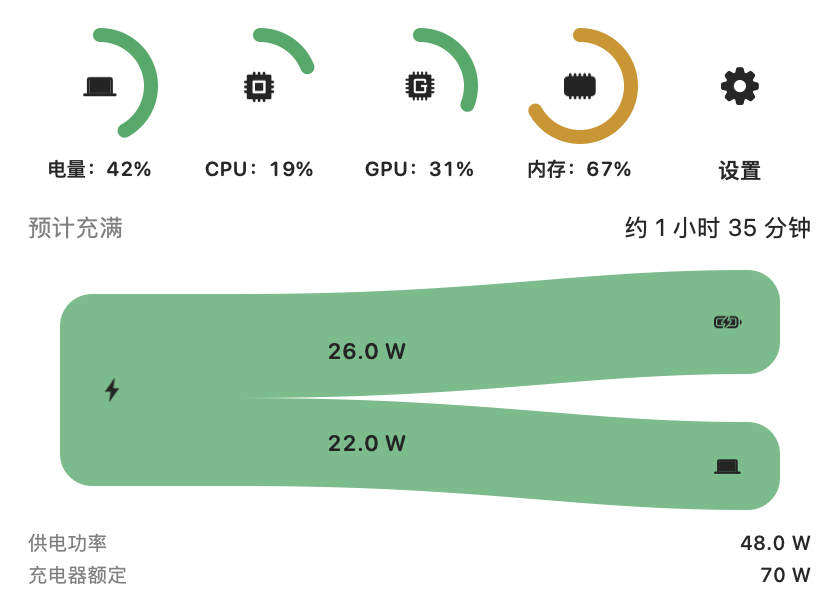
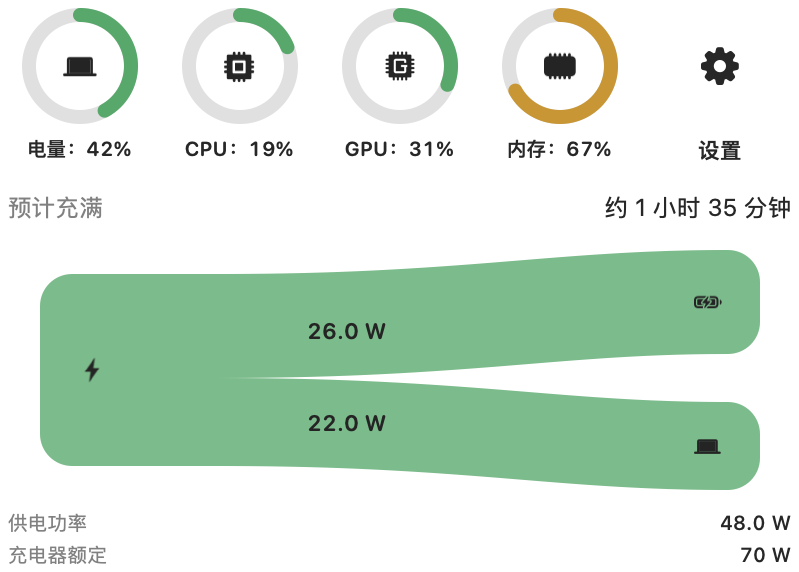
Capture README panels on an opaque canvas so glass presets stay visible.
Liquid Glass sampled as empty black in gallery bitmaps, and transparent pixels looked black on GitHub dark mode. Gallery shots now flatten onto the window background with an opaque ribbon fallback.

diff --git a/MacPower/ReadmeAssetCapture.swift b/MacPower/ReadmeAssetCapture.swift
@@ -12,6 +12,10 @@ enum ReadmeAssetCapture {
         var tint: PopoverTintPreset
     }
 
+    /// Opaque page color so GitHub dark/light both show a real panel, not a
+    /// transparent hole that reads as black.
+    private static let canvasColor = NSColor.windowBackgroundColor
+
     static func startIfNeeded() -> Bool {
         guard CommandLine.arguments.contains("--readme-gallery") else { return false }
         NSApp.setActivationPolicy(.regular)
@@ -53,6 +57,7 @@ enum ReadmeAssetCapture {
         let hosting = NSHostingController(
             rootView: PopoverRootView(appState: state)
                 .environment(\.colorScheme, .light)
+                .environment(\.readmeGalleryCapture, true)
         )
         hosting.sizingOptions = [.intrinsicContentSize]
         let popover = NSPopover()
@@ -96,7 +101,7 @@ enum ReadmeAssetCapture {
             }
             let dest = output.appendingPathComponent("\(shot.name).png")
             if captureView(hosting.view, to: dest) {
-                trimOpaqueContent(at: dest)
+                flattenAndTrim(at: dest)
                 print("wrote \(dest.lastPathComponent)")
             } else {
                 print("failed \(shot.name)")
@@ -121,6 +126,15 @@ enum ReadmeAssetCapture {
         let size = view.bounds.size
         guard size.width > 1, size.height > 1 else { return false }
         guard let rep = view.bitmapImageRepForCachingDisplay(in: view.bounds) else { return false }
+        // Paint an opaque canvas first — transparent glass holes otherwise ship
+        // as empty alpha and look black on GitHub's dark README theme.
+        if let ctx = NSGraphicsContext(bitmapImageRep: rep) {
+            NSGraphicsContext.saveGraphicsState()
+            NSGraphicsContext.current = ctx
+            canvasColor.setFill()
+            NSBezierPath.fill(view.bounds)
+            NSGraphicsContext.restoreGraphicsState()
+        }
         view.cacheDisplay(in: view.bounds, to: rep)
         guard let png = rep.representation(using: .png, properties: [:]) else { return false }
         do {
@@ -131,12 +145,30 @@ enum ReadmeAssetCapture {
         }
     }
 
-    private static func trimOpaqueContent(at url: URL) {
+    private static func flattenAndTrim(at url: URL) {
         guard let image = NSImage(contentsOf: url),
               let tiff = image.tiffRepresentation,
               let rep = NSBitmapImageRep(data: tiff) else { return }
         let width = rep.pixelsWide
         let height = rep.pixelsHigh
+        let bg = canvasColor.usingColorSpace(.deviceRGB) ?? canvasColor
+        let bgR = bg.redComponent
+        let bgG = bg.greenComponent
+        let bgB = bg.blueComponent
+
+        // Flatten remaining alpha onto the canvas color.
+        for y in 0..<height {
+            for x in 0..<width {
+                guard let color = rep.colorAt(x: x, y: y) else { continue }
+                let a = color.alphaComponent
+                if a >= 0.999 { continue }
+                let r = color.redComponent * a + bgR * (1 - a)
+                let g = color.greenComponent * a + bgG * (1 - a)
+                let b = color.blueComponent * a + bgB * (1 - a)
+                rep.setColor(NSColor(deviceRed: r, green: g, blue: b, alpha: 1), atX: x, y: y)
+            }
+        }
+
         var minX = width
         var minY = height
         var maxX = 0
@@ -144,9 +176,11 @@ enum ReadmeAssetCapture {
         for y in 0..<height {
             for x in 0..<width {
                 guard let color = rep.colorAt(x: x, y: y) else { continue }
-                let lum = color.redComponent * 0.3 + color.greenComponent * 0.59 + color.blueComponent * 0.11
-                // Keep glass / colored content; drop near-black empty canvas.
-                if lum > 0.08 || color.alphaComponent < 0.95 {
+                let dr = abs(color.redComponent - bgR)
+                let dg = abs(color.greenComponent - bgG)
+                let db = abs(color.blueComponent - bgB)
+                // Keep anything that is not the empty canvas.
+                if dr + dg + db > 0.04 {
                     minX = min(minX, x)
                     minY = min(minY, y)
                     maxX = max(maxX, x)
@@ -154,7 +188,7 @@ enum ReadmeAssetCapture {
                 }
             }
         }
-        let pad = 6
+        let pad = 8
         minX = max(0, minX - pad)
         minY = max(0, minY - pad)
         maxX = min(width - 1, maxX + pad)
@@ -200,7 +234,7 @@ private extension PowerSnapshot {
                 isCharging: false,
                 externalConnected: true,
                 fullyCharged: true,
-                adapterCeilingWatts: 70,
+                adapterCeilingWatts: 30,
                 adapterInWatts: 12.4,
                 systemLoadWatts: 12.4,
                 batteryWatts: 0,
@@ -225,9 +259,9 @@ private extension PowerSnapshot {
                 batteryWatts: -10.5,
                 remainingCapacityWh: 48,
                 missingCapacityWh: 26,
-                systemTimeToEmptyMinutes: nil,
+                systemTimeToEmptyMinutes: 210,
                 systemTimeToFullMinutes: nil,
-                timeToEmptyMinutes: nil,
+                timeToEmptyMinutes: 210,
                 timeToFullMinutes: nil,
                 flowMode: .underpowered
             )

diff --git a/MacPower/Views/EnergyFlowView.swift b/MacPower/Views/EnergyFlowView.swift
@@ -367,6 +367,7 @@ private struct EnergyFlowDiagram<Trailing: View>: View {
         var fillRight: Color
         var bodyPath: Path
         var maskSignature: Int
+        @Environment(\.readmeGalleryCapture) private var readmeGalleryCapture
 
         static func == (lhs: Self, rhs: Self) -> Bool {
             lhs.size == rhs.size
@@ -382,17 +383,19 @@ private struct EnergyFlowDiagram<Trailing: View>: View {
             )
             // Tint glass with a mid mix so neither end of a gradient disappears.
             let glassTint = fillLeft.mix(with: fillRight, by: 0.5).opacity(FlowRibbon.glassTintOpacity)
-            let sampled = Color.clear
-                .frame(width: size.width, height: size.height)
-                .glassEffect(.regular.tint(glassTint), in: stadium)
             ZStack {
                 FlowRibbonShape(path: bodyPath)
                     .fill(ribbonFill)
-                // The hosting slot reserves 120pt of headroom, while a single
-                // ribbon is intentionally 96pt tall. Always mask the sampled
-                // glass to the real silhouette; otherwise the final frame after
-                // a morph expands to the reserved slot and visibly jumps width.
-                sampled.mask { FlowRibbonShape(path: bodyPath) }
+                if readmeGalleryCapture {
+                    // Offscreen bitmaps do not sample Liquid Glass; keep the
+                    // opaque pigment so gradient / smooth presets stay visible.
+                    EmptyView()
+                } else {
+                    let sampled = Color.clear
+                        .frame(width: size.width, height: size.height)
+                        .glassEffect(.regular.tint(glassTint), in: stadium)
+                    sampled.mask { FlowRibbonShape(path: bodyPath) }
+                }
             }
         }
 

diff --git a/MacPower/Views/StatusRingView.swift b/MacPower/Views/StatusRingView.swift
@@ -8,6 +8,7 @@ struct StatusRingView: View {
     var accessibilityName: String
     var glyph: GlyphSlot
     @Environment(\.colorScheme) private var colorScheme
+    @Environment(\.readmeGalleryCapture) private var readmeGalleryCapture
 
     private let diameter: CGFloat = 58
     private let lineWidth: CGFloat = 7
@@ -72,15 +73,22 @@ struct StatusRingView: View {
         )
     }
 
+    @ViewBuilder
     private var glassTrack: some View {
-        Color.clear
-            .frame(width: diameter, height: diameter)
-            .glassEffect(.regular, in: Circle())
-            .mask {
-                Circle()
-                    .stroke(style: StrokeStyle(lineWidth: lineWidth, lineCap: .butt))
-                    .frame(width: diameter - lineWidth, height: diameter - lineWidth)
-            }
+        let track = Circle()
+            .stroke(style: StrokeStyle(lineWidth: lineWidth, lineCap: .butt))
+            .frame(width: diameter - lineWidth, height: diameter - lineWidth)
+        if readmeGalleryCapture {
+            // Bitmap capture cannot sample Liquid Glass; keep a light track.
+            Color(white: 0.88)
+                .frame(width: diameter, height: diameter)
+                .mask { track }
+        } else {
+            Color.clear
+                .frame(width: diameter, height: diameter)
+                .glassEffect(.regular, in: Circle())
+                .mask { track }
+        }
     }
 }
 

diff --git a/MacPower/Views/FlowGeometry.swift b/MacPower/Views/FlowGeometry.swift
@@ -1,5 +1,18 @@
 import SwiftUI
 
+private enum ReadmeGalleryCaptureKey: EnvironmentKey {
+    static let defaultValue = false
+}
+
+extension EnvironmentValues {
+    /// When true, Liquid Glass is replaced with opaque fills so README bitmaps
+    /// keep a readable ribbon (cacheDisplay often samples glass as empty black).
+    var readmeGalleryCapture: Bool {
+        get { self[ReadmeGalleryCaptureKey.self] }
+        set { self[ReadmeGalleryCaptureKey.self] = newValue }
+    }
+}
+
 enum FlowRibbon {
     /// Diameter of the settings button, and the horizontal slot reserved for end logos.
     static let nodeDiameter: CGFloat = 32
